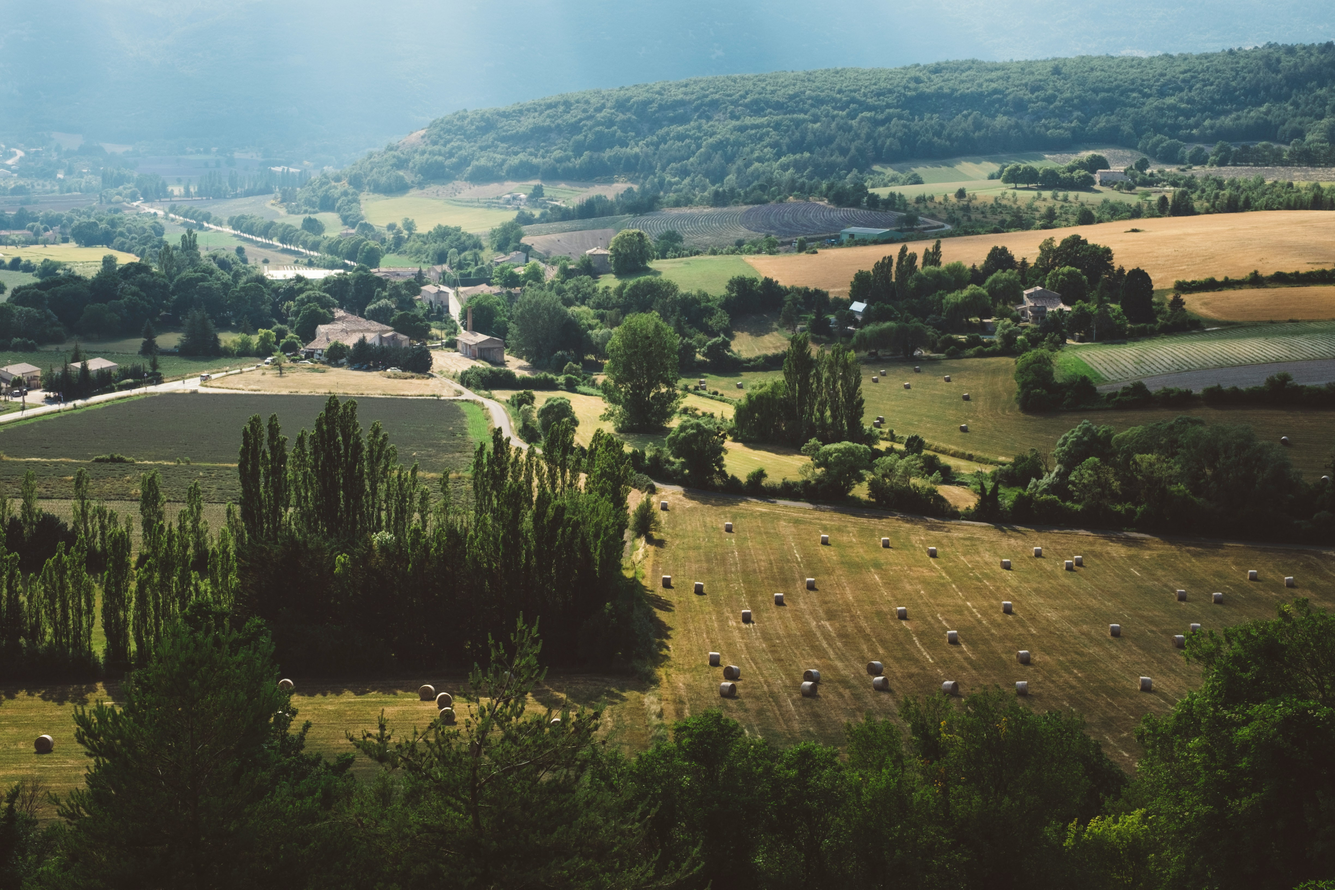
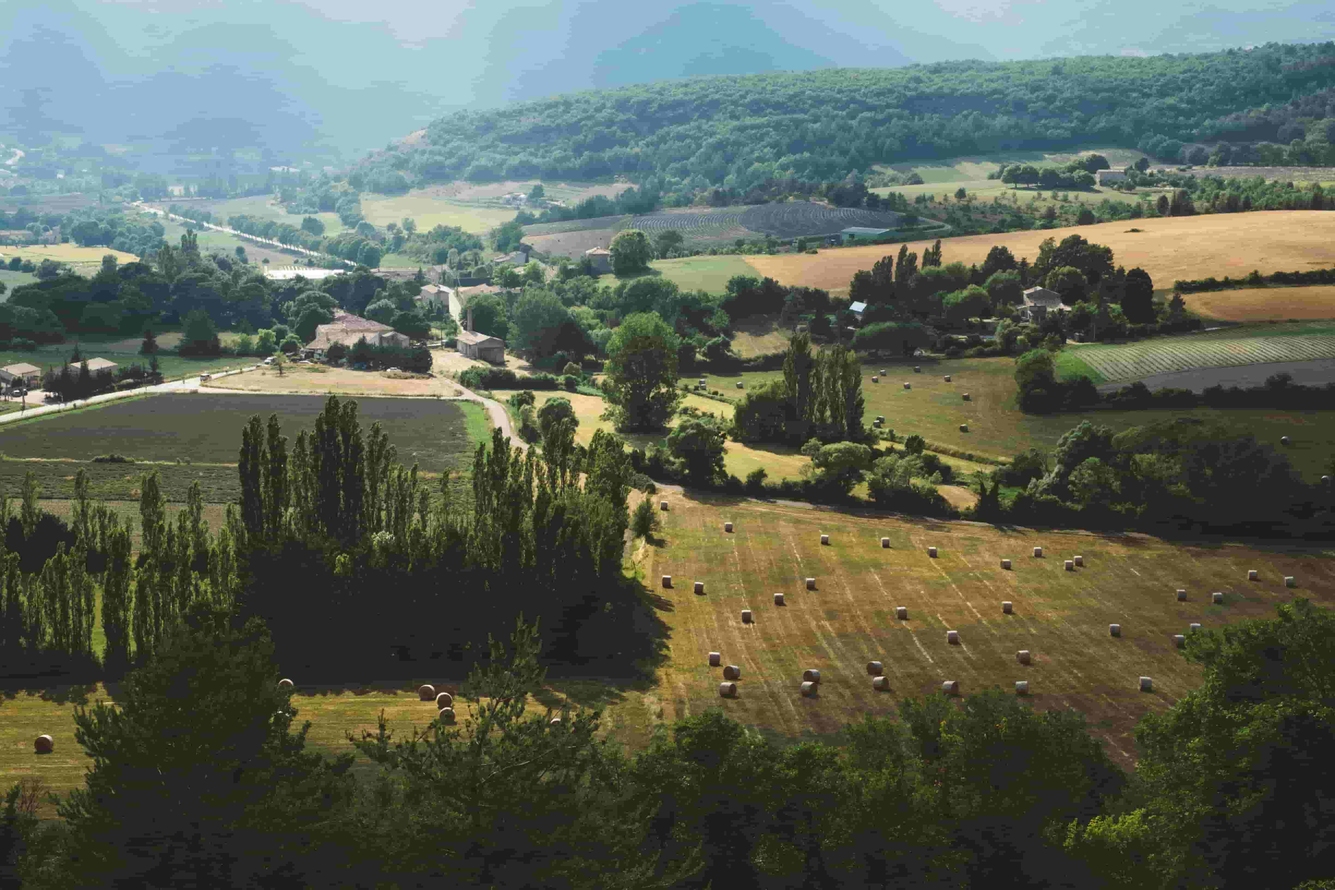
feat: add deployment

diff --git a/next.config.js b/next.config.js
@@ -3,21 +3,8 @@
  **/
 const nextConfig = {
     output: 'export',
-    images: {
-        loader: 'custom',
-        imageSizes: [16, 32, 48, 64, 96, 128, 256, 384],
-        deviceSizes: [640, 750, 828, 1080, 1200, 1920, 2048, 3840],
-    },
-    transpilePackages: ['next-image-export-optimizer'],
-    env: {
-        nextImageExportOptimizer_imageFolderPath: 'public/images',
-        nextImageExportOptimizer_exportFolderPath: 'out',
-        nextImageExportOptimizer_quality: '75',
-        nextImageExportOptimizer_storePicturesInWEBP: 'true',
-        nextImageExportOptimizer_exportFolderName: 'optimized',
-        nextImageExportOptimizer_generateAndUseBlurImages: 'true',
-        nextImageExportOptimizer_remoteImageCacheTTL: '0',
-    },
+    basePath: '/resume',
+    images: { unoptimized: true },
 };
 
 module.exports = nextConfig;

diff --git a/src/app/page.tsx b/src/app/page.tsx
@@ -1,4 +1,4 @@
-import ExportedImage from 'next-image-export-optimizer';
+import Image from 'next/image';
 import imgSrc from '../../public/images/frenchCountryside.jpg';
 
 const Page = () => (
@@ -25,7 +25,7 @@ const Page = () => (
             </a>
             .
         </p>
-        <ExportedImage
+        <Image
             alt="french countryside"
             src={imgSrc}
             className="rounded-lg"
